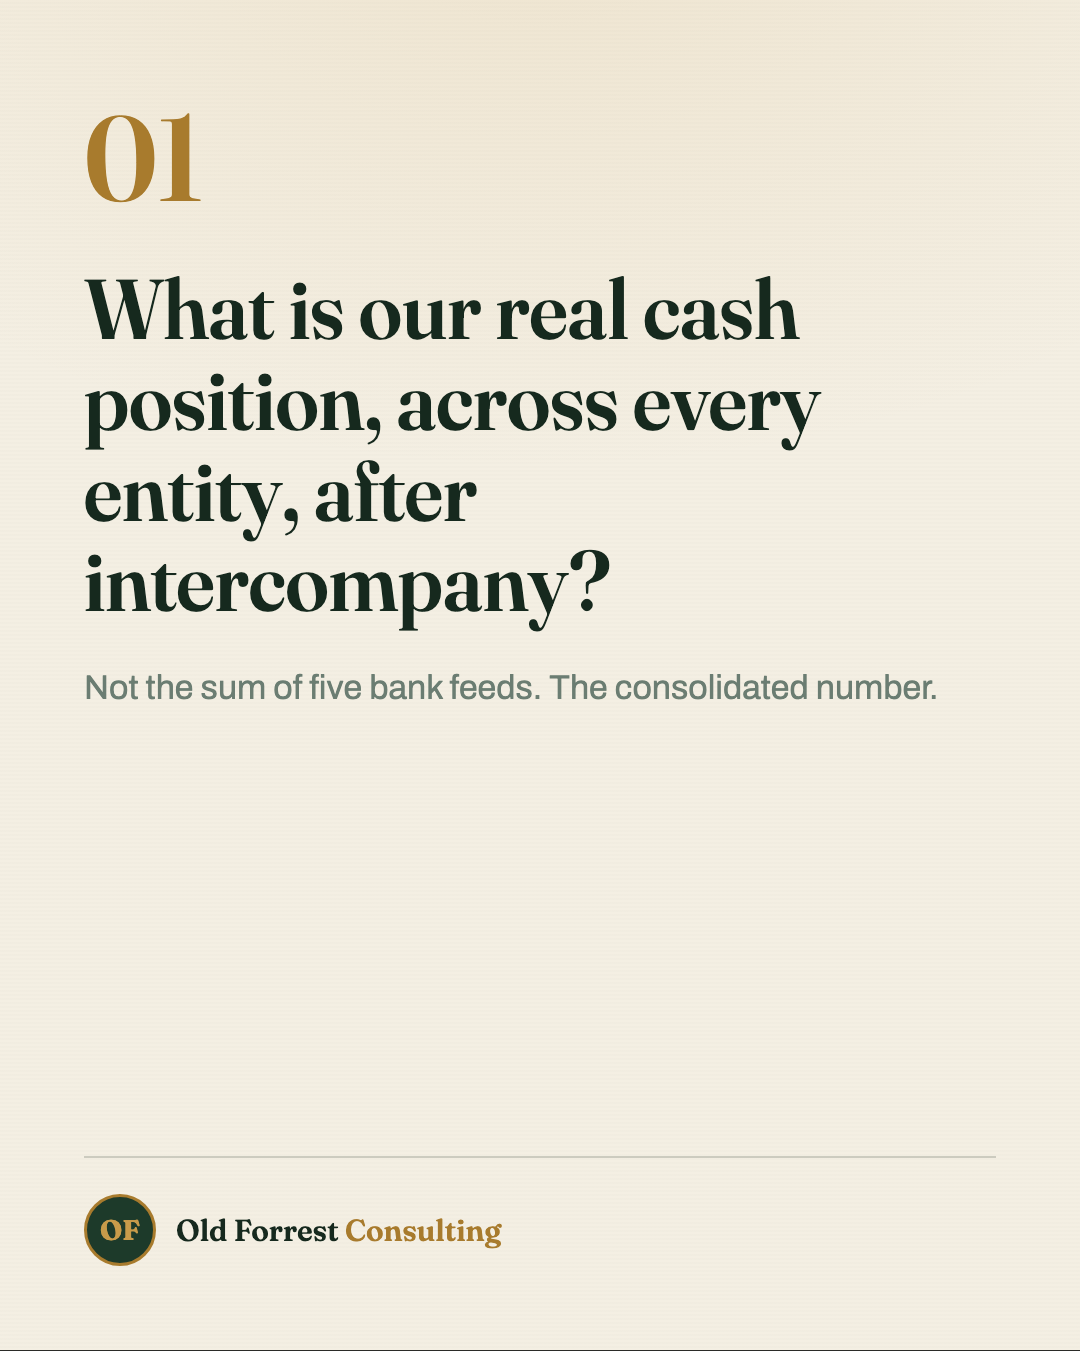
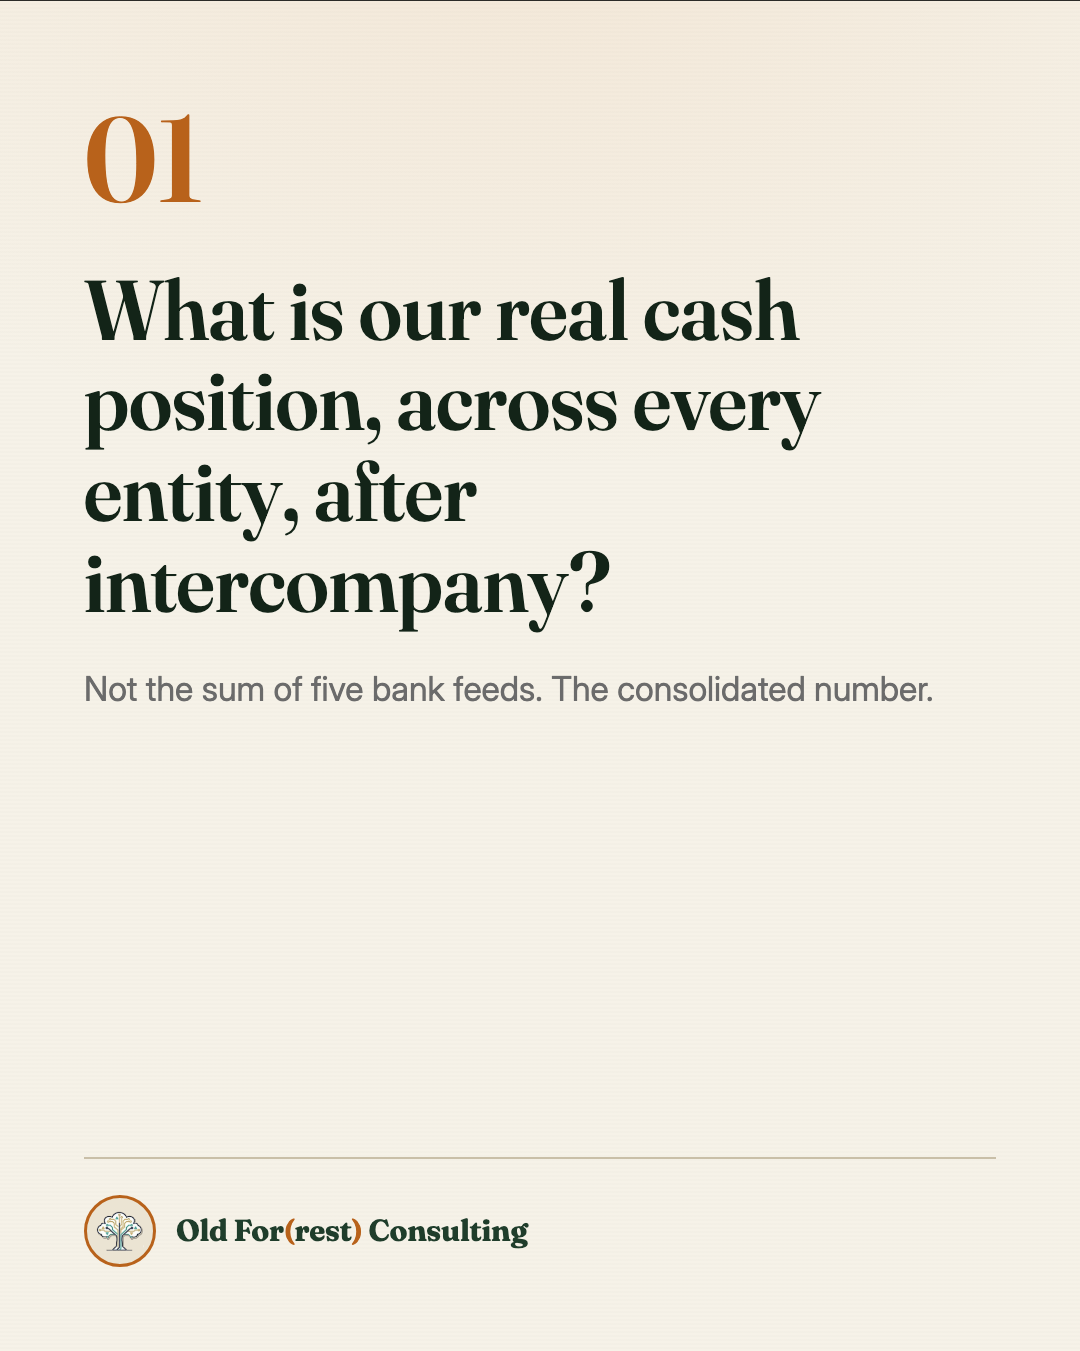
offers: rebrand ad mockups to site assets
Tree logo-mark replaces the OF monogram seal, wordmark becomes
Old For(rest) Consulting with ember parens, palette swapped to the exact
site tokens, body font Archivo -> Inter. All 14 PNGs re-exported.

diff --git a/offers/ads/ad-mockups.html b/offers/ads/ad-mockups.html
@@ -4,25 +4,26 @@
 <meta charset="UTF-8">
 <title>Operational Intelligence — Meta Ad Mockups</title>
 <link rel="preconnect" href="https://fonts.googleapis.com">
-<link href="https://fonts.googleapis.com/css2?family=Fraunces:ital,opsz,wght@0,9..144,400..700;1,9..144,400..700&family=Archivo:wght@400..700&display=swap" rel="stylesheet">
+<link href="https://fonts.googleapis.com/css2?family=Fraunces:ital,opsz,wght@0,9..144,400..700;1,9..144,400..700&family=Inter:ital,opsz,wght@0,14..32,100..900;1,14..32,100..900&display=swap" rel="stylesheet">
 <style>
   :root {
-    --paper: #f4efe3;
-    --paper-2: #ece4d2;
-    --ink: #16291e;
-    --ink-soft: #3c5246;
-    --ink-faint: #6b7d72;
-    --forest: #1d3a2a;
-    --brass: #a87b2d;
-    --brass-bright: #c89b4a;
+    --paper: #f6f2e8;
+    --paper-2: #ebe4d3;
+    --ink: #1a1a1a;
+    --ink-soft: #3b3b3b;
+    --ink-faint: #6b6b6b;
+    --forest: #1f3d2b;
+    --forest-deep: #132418;
+    --brass: #b8621b;
+    --brass-bright: #d98c4a;
     --red: #9a3b2e;
-    --rule: rgba(22,41,30,0.18);
-    --rule-soft: rgba(22,41,30,0.10);
+    --rule: #c9bfa8;
+    --rule-soft: rgba(201,191,168,0.45);
   }
   * { box-sizing: border-box; margin: 0; padding: 0; }
   body {
     background: #2b2b28; color: #ddd;
-    font-family: "Archivo", sans-serif;
+    font-family: "Inter", sans-serif;
     padding: 48px; display: flex; flex-direction: column; gap: 64px;
   }
   .unit { display: flex; gap: 40px; align-items: flex-start; flex-wrap: wrap; }
@@ -39,8 +40,8 @@
   .ad {
     background: var(--paper);
     background-image:
-      radial-gradient(ellipse 80% 40% at 50% -5%, rgba(200,155,74,.12), transparent),
-      repeating-linear-gradient(0deg, transparent 0 2px, rgba(22,41,30,.012) 2px 4px);
+      radial-gradient(ellipse 80% 40% at 50% -5%, rgba(217,140,74,.10), transparent),
+      repeating-linear-gradient(0deg, transparent 0 2px, rgba(19,36,24,.012) 2px 4px);
     color: var(--ink); position: relative; overflow: hidden;
     display: flex; flex-direction: column; flex-shrink: 0;
   }
@@ -53,19 +54,19 @@
   }
   .seal {
     width: 72px; height: 72px; border-radius: 50%; flex-shrink: 0;
-    background: var(--forest); color: var(--brass-bright);
+    background: var(--paper-2); overflow: hidden;
     border: 3px solid var(--brass);
     display: flex; align-items: center; justify-content: center;
-    font-family: "Fraunces", serif; font-weight: 700; font-size: 28px;
   }
-  .brand-name { font-family: "Fraunces", serif; font-weight: 600; font-size: 30px; }
-  .brand-name span { color: var(--brass); }
+  .seal img { width: 78%; height: auto; display: block; }
+  .brand-name { font-family: "Fraunces", serif; font-weight: 700; font-size: 30px; color: var(--forest); letter-spacing: -0.01em; }
+  .brand-name .paren { color: var(--brass); }
   .brand-tag { margin-left: auto; font-size: 22px; color: var(--ink-faint); letter-spacing: .14em; text-transform: uppercase; }
   .kicker {
     font-size: 24px; letter-spacing: .24em; text-transform: uppercase;
     color: var(--brass); font-weight: 600; margin-bottom: 40px;
   }
-  .display { font-family: "Fraunces", serif; font-weight: 600; line-height: 1.08; }
+  .display { font-family: "Fraunces", serif; font-weight: 600; line-height: 1.08; color: var(--forest-deep); }
   .quote-mark { font-family: "Fraunces", serif; font-size: 200px; line-height: .6; color: var(--brass); display: block; margin-bottom: 8px; }
   .fig { font-variant-numeric: tabular-nums; }
   .neg { color: var(--red); }
@@ -106,11 +107,11 @@
   .card .qnote { font-size: 34px; color: var(--ink-faint); margin-top: 36px; line-height: 1.45; }
   .card-hook .display { font-size: 92px; }
   .card-close { background: var(--forest); color: var(--paper); }
-  .card-close .display { font-size: 84px; color: var(--paper); }
+  .card-close .display { font-size: 84px; color: var(--paper) !important; }
   .card-close .display em { color: var(--brass-bright); font-style: italic; }
   .card-close .qnote { color: rgba(244,239,227,.75); }
   .card-close .brand { border-top-color: rgba(244,239,227,.25); }
-  .card-close .brand-name { color: var(--paper); }
+  .card-close .brand-name { color: var(--paper); } .card-close .brand-name .paren { color: var(--brass-bright); } .card-close .seal { background: var(--paper); }
   .card-close .brand-tag { color: rgba(244,239,227,.6); }
   .pill {
     display: inline-block; margin-top: 44px; align-self: flex-start;
@@ -157,7 +158,7 @@
     <h1 class="display">This email goes to owners who run more than one company.</h1>
     <div class="mini-digest">
       <div class="mini-digest-head">
-        <div class="seal">OF</div>
+        <div class="seal"><img src="logo-mark.png" alt=""></div>
         <div>
           <div class="md-meta"><b>Old Forrest Intelligence</b> · Tue 6:00 AM</div>
           <div class="md-subject">Week 24: WIP exposure up $340K</div>
@@ -177,8 +178,8 @@
       </div>
     </div>
     <div class="brand">
-      <div class="seal">OF</div>
-      <div class="brand-name">Old Forrest <span>Consulting</span></div>
+      <div class="seal"><img src="logo-mark.png" alt=""></div>
+      <div class="brand-name">Old For<span class="paren">(</span>rest<span class="paren">)</span> Consulting</div>
       <div class="brand-tag">Operational Intelligence</div>
     </div>
   </div>
@@ -206,8 +207,8 @@
       <div class="tl-row bad"><span class="tl-day">Friday</span><span class="tl-what">It is already stale.</span></div>
     </div>
     <div class="brand">
-      <div class="seal">OF</div>
-      <div class="brand-name">Old Forrest <span>Consulting</span></div>
+      <div class="seal"><img src="logo-mark.png" alt=""></div>
+      <div class="brand-name">Old For<span class="paren">(</span>rest<span class="paren">)</span> Consulting</div>
       <div class="brand-tag">Operational Intelligence</div>
     </div>
   </div>
@@ -240,43 +241,43 @@
       <div class="kicker">For multi-entity operators</div>
       <h1 class="display">Five questions you should be able to answer on any Tuesday.</h1>
       <p class="qnote">Swipe. Count how many you can answer today.</p>
-      <div class="brand"><div class="seal">OF</div><div class="brand-name">Old Forrest <span>Consulting</span></div></div>
+      <div class="brand"><div class="seal"><img src="logo-mark.png" alt=""></div><div class="brand-name">Old For<span class="paren">(</span>rest<span class="paren">)</span> Consulting</div></div>
     </div>
     <div class="ad card" id="car-1">
       <div class="qnum fig">01</div>
       <h1 class="display">What is our real cash position, across every entity, after intercompany?</h1>
       <p class="qnote">Not the sum of five bank feeds. The consolidated number.</p>
-      <div class="brand"><div class="seal">OF</div><div class="brand-name">Old Forrest <span>Consulting</span></div></div>
+      <div class="brand"><div class="seal"><img src="logo-mark.png" alt=""></div><div class="brand-name">Old For<span class="paren">(</span>rest<span class="paren">)</span> Consulting</div></div>
     </div>
     <div class="ad card" id="car-2">
       <div class="qnum fig">02</div>
       <h1 class="display">Which jobs are actually making money, and which only look like it?</h1>
       <p class="qnote">Billed percent against true percent complete, by job.</p>
-      <div class="brand"><div class="seal">OF</div><div class="brand-name">Old Forrest <span>Consulting</span></div></div>
+      <div class="brand"><div class="seal"><img src="logo-mark.png" alt=""></div><div class="brand-name">Old For<span class="paren">(</span>rest<span class="paren">)</span> Consulting</div></div>
     </div>
     <div class="ad card" id="car-3">
       <div class="qnum fig">03</div>
       <h1 class="display">What is our WIP exposure right now?</h1>
       <p class="qnote">Underbillings, overbillings, and retainage in one view.</p>
-      <div class="brand"><div class="seal">OF</div><div class="brand-name">Old Forrest <span>Consulting</span></div></div>
+      <div class="brand"><div class="seal"><img src="logo-mark.png" alt=""></div><div class="brand-name">Old For<span class="paren">(</span>rest<span class="paren">)</span> Consulting</div></div>
     </div>
     <div class="ad card" id="car-4">
       <div class="qnum fig">04</div>
       <h1 class="display">Where are intercompany flows hiding profit or risk?</h1>
       <p class="qnote">Equipment rents, shared labor, management fees. Traced, not guessed.</p>
-      <div class="brand"><div class="seal">OF</div><div class="brand-name">Old Forrest <span>Consulting</span></div></div>
+      <div class="brand"><div class="seal"><img src="logo-mark.png" alt=""></div><div class="brand-name">Old For<span class="paren">(</span>rest<span class="paren">)</span> Consulting</div></div>
     </div>
     <div class="ad card" id="car-5">
       <div class="qnum fig">05</div>
       <h1 class="display">Who is utilized, who is idle, and what is that costing?</h1>
       <p class="qnote">Crews and equipment, priced by the day.</p>
-      <div class="brand"><div class="seal">OF</div><div class="brand-name">Old Forrest <span>Consulting</span></div></div>
+      <div class="brand"><div class="seal"><img src="logo-mark.png" alt=""></div><div class="brand-name">Old For<span class="paren">(</span>rest<span class="paren">)</span> Consulting</div></div>
     </div>
     <div class="ad card card-close" id="car-6">
       <h1 class="display">If the answers live in a spreadsheet, <em>we should talk.</em></h1>
       <p class="qnote">Fixed-price assessment. Three weeks. The roadmap is yours to keep either way.</p>
       <span class="pill">See how it works</span>
-      <div class="brand"><div class="seal">OF</div><div class="brand-name">Old Forrest <span>Consulting</span></div></div>
+      <div class="brand"><div class="seal"><img src="logo-mark.png" alt=""></div><div class="brand-name">Old For<span class="paren">(</span>rest<span class="paren">)</span> Consulting</div></div>
     </div>
   </div>
 </div>
@@ -288,8 +289,8 @@
     <h1 class="display">Your controller is excellent. <em>The consolidation spreadsheet isn't.</em></h1>
     <p class="sub">Excel holds up fine at one entity. At four, with intercompany, job costing, and WIP, it quietly breaks. Nobody finds out until it matters.</p>
     <div class="brand">
-      <div class="seal">OF</div>
-      <div class="brand-name">Old Forrest <span>Consulting</span></div>
+      <div class="seal"><img src="logo-mark.png" alt=""></div>
+      <div class="brand-name">Old For<span class="paren">(</span>rest<span class="paren">)</span> Consulting</div>
       <div class="brand-tag">Operational Intelligence</div>
     </div>
   </div>
@@ -317,8 +318,8 @@
     </div>
     <p class="keep-punch">We connect them. One picture, every entity.</p>
     <div class="brand">
-      <div class="seal">OF</div>
-      <div class="brand-name">Old Forrest <span>Consulting</span></div>
+      <div class="seal"><img src="logo-mark.png" alt=""></div>
+      <div class="brand-name">Old For<span class="paren">(</span>rest<span class="paren">)</span> Consulting</div>
       <div class="brand-tag">Operational Intelligence</div>
     </div>
   </div>
@@ -353,7 +354,7 @@
       <span class="story-label">Frame 1 · 0 to 8s · talking head</span>
       <h1 class="display">&ldquo;If you own more than one company, quick question.&rdquo;</h1>
       <div class="story-script">SCRIPT: "What is your real cash position right now? All entities, after intercompany. Not roughly. Actually."</div>
-      <div class="brand"><div class="seal">OF</div><div class="brand-name">Old Forrest <span>Consulting</span></div></div>
+      <div class="brand"><div class="seal"><img src="logo-mark.png" alt=""></div><div class="brand-name">Old For<span class="paren">(</span>rest<span class="paren">)</span> Consulting</div></div>
     </div>
     <div class="ad story" id="story-2">
       <span class="story-label">Frame 2 · 8 to 20s · screen recording</span>
@@ -365,14 +366,14 @@
         <div class="sd-card"><div class="sd-k">Idle cost, wk</div><div class="sd-v fig neg">$9.3K</div></div>
       </div>
       <div class="story-script">SCRIPT: "...this is what Tuesday morning looks like for my clients. Every entity. One picture. Plain English."</div>
-      <div class="brand"><div class="seal">OF</div><div class="brand-name">Old Forrest <span>Consulting</span></div></div>
+      <div class="brand"><div class="seal"><img src="logo-mark.png" alt=""></div><div class="brand-name">Old For<span class="paren">(</span>rest<span class="paren">)</span> Consulting</div></div>
     </div>
     <div class="ad story" id="story-3">
       <span class="story-label">Frame 3 · 20 to 30s · talking head + end card</span>
       <h1 class="display">&ldquo;Your software stays. Fixed prices. The first deliverable is yours to keep either way.&rdquo;</h1>
       <div class="story-script">SCRIPT: "Link below. See a sample Tuesday digest for a group like yours."</div>
       <span class="pill">oldforrest.net/operational-intelligence</span>
-      <div class="brand"><div class="seal">OF</div><div class="brand-name">Old Forrest <span>Consulting</span></div></div>
+      <div class="brand"><div class="seal"><img src="logo-mark.png" alt=""></div><div class="brand-name">Old For<span class="paren">(</span>rest<span class="paren">)</span> Consulting</div></div>
     </div>
   </div>
 </div>
